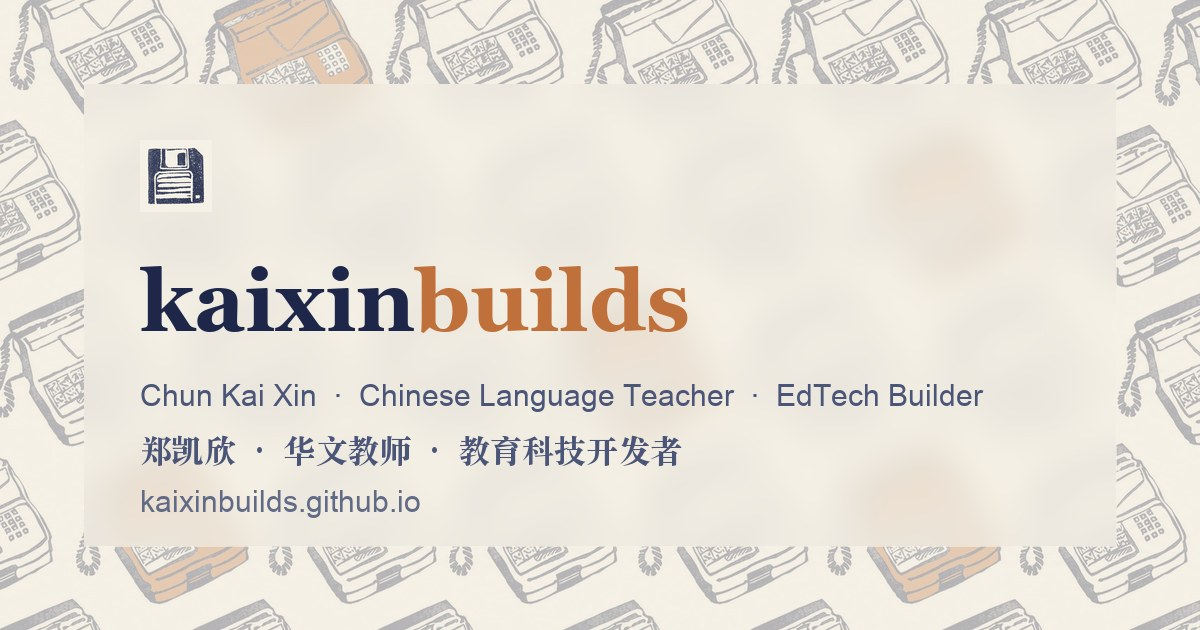
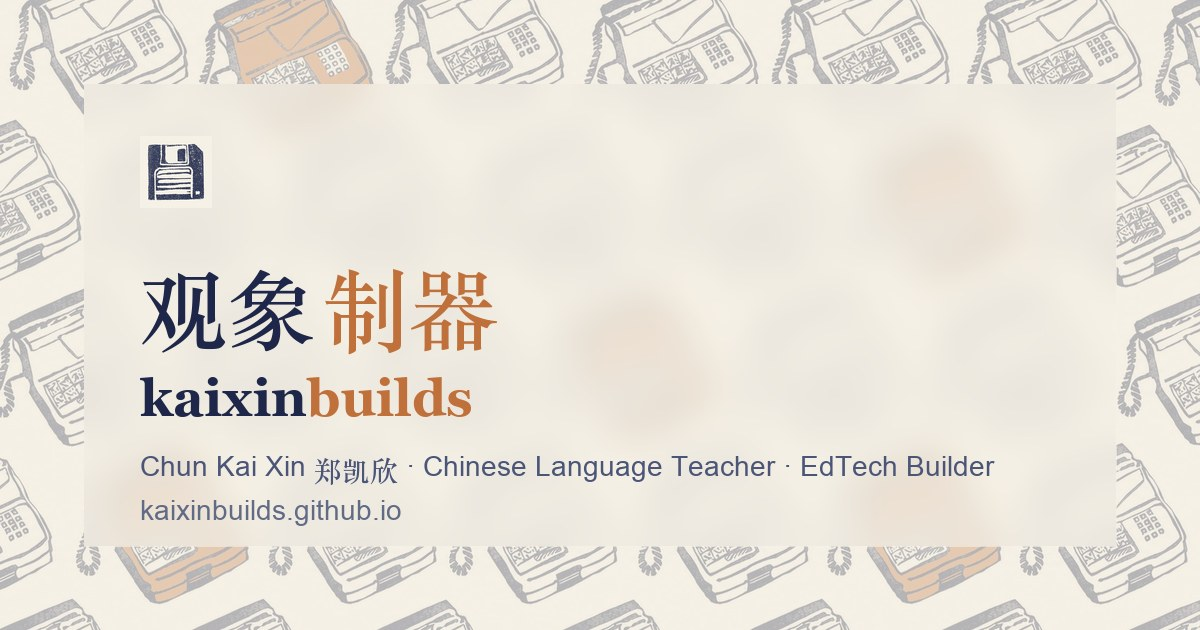
lock in 观象制器 as the Chinese name

diff --git a/script.js b/script.js
@@ -80,6 +80,19 @@
       el.innerHTML = tb(key);
     });
 
+    // The wordmark is a brand, not copy: it shows one form, not a stacked
+    // pair. In bilingual mode the Chinese name leads and the latin one
+    // follows quietly, since the address is still kaixinbuilds.
+    const wordmark = $('#wordmark-text');
+    if (wordmark && data.i18n['brand.a']) {
+      const a = data.i18n['brand.a'], b = data.i18n['brand.b'];
+      const form = (l) => `${esc(a[l])}<em>${esc(b[l])}</em>`;
+      wordmark.innerHTML = lang === 'en'
+        ? form('en')
+        : `<span lang="zh-Hans">${form('zh')}</span>`
+          + (lang === 'both' ? `<span class="wordmark-latin">${esc(a.en + b.en)}</span>` : '');
+    }
+
     document.querySelectorAll('[data-i18n-aria-label]').forEach((el) => {
       el.setAttribute('aria-label', t(el.dataset.i18nAriaLabel));
     });

diff --git a/index.html b/index.html
@@ -38,7 +38,7 @@
     <div class="header-inner">
       <a class="wordmark" href="index.html" aria-current="page">
         <img class="mark" src="favicon.png" alt="" width="22" height="22" decoding="async">
-        <span class="wordmark-text">kaixin<em>builds</em></span>
+        <span class="wordmark-text" id="wordmark-text">kaixin<em>builds</em></span>
       </a>
 
       <nav class="site-nav" aria-label="Primary">
@@ -71,7 +71,7 @@
         <span class="src" data-i18n="epigraph.source">《增广贤文 · 劝学篇》</span>
       </p>
 
-      <p class="eyebrow">kaixinbuilds</p>
+      <p class="eyebrow" data-i18n="brand.full">kaixinbuilds</p>
       <h1 class="hero-name" data-i18n="hero.name">Chun Kai Xin</h1>
       <p class="hero-tagline" data-i18n="hero.tagline"></p>
       <p class="hero-intro" data-i18n="hero.intro"></p>

diff --git a/style.css b/style.css
@@ -164,6 +164,15 @@ main > .section + .section { border-top: 1px solid var(--rule); }
   border-radius: 3px;
 }
 .wordmark-text { white-space: nowrap; }
+.wordmark-text :lang(zh-Hans) { letter-spacing: .04em; }
+.wordmark-latin {
+  margin-left: .55rem;
+  font-family: var(--font-sans);
+  font-size: .72rem;
+  font-weight: 400;
+  letter-spacing: .04em;
+  color: var(--ink-faint);
+}
 .wordmark em { font-style: normal; color: var(--ochre-deep); }
 
 .site-nav { display: flex; gap: 1.6rem; }

diff --git a/approach.html b/approach.html
@@ -38,7 +38,7 @@
     <div class="header-inner">
       <a class="wordmark" href="index.html">
         <img class="mark" src="favicon.png" alt="" width="22" height="22" decoding="async">
-        <span class="wordmark-text">kaixin<em>builds</em></span>
+        <span class="wordmark-text" id="wordmark-text">kaixin<em>builds</em></span>
       </a>
 
       <nav class="site-nav" aria-label="Primary">

diff --git a/contact.html b/contact.html
@@ -38,7 +38,7 @@
     <div class="header-inner">
       <a class="wordmark" href="index.html">
         <img class="mark" src="favicon.png" alt="" width="22" height="22" decoding="async">
-        <span class="wordmark-text">kaixin<em>builds</em></span>
+        <span class="wordmark-text" id="wordmark-text">kaixin<em>builds</em></span>
       </a>
 
       <nav class="site-nav" aria-label="Primary">

diff --git a/talks.html b/talks.html
@@ -38,7 +38,7 @@
     <div class="header-inner">
       <a class="wordmark" href="index.html">
         <img class="mark" src="favicon.png" alt="" width="22" height="22" decoding="async">
-        <span class="wordmark-text">kaixin<em>builds</em></span>
+        <span class="wordmark-text" id="wordmark-text">kaixin<em>builds</em></span>
       </a>
 
       <nav class="site-nav" aria-label="Primary">

diff --git a/work.html b/work.html
@@ -38,7 +38,7 @@
     <div class="header-inner">
       <a class="wordmark" href="index.html">
         <img class="mark" src="favicon.png" alt="" width="22" height="22" decoding="async">
-        <span class="wordmark-text">kaixin<em>builds</em></span>
+        <span class="wordmark-text" id="wordmark-text">kaixin<em>builds</em></span>
       </a>
 
       <nav class="site-nav" aria-label="Primary">

diff --git a/build.py b/build.py
@@ -65,7 +65,7 @@ HEAD = """\
     <div class="header-inner">
       <a class="wordmark" href="index.html"__HOME__>
         <img class="mark" src="favicon.png" alt="" width="22" height="22" decoding="async">
-        <span class="wordmark-text">kaixin<em>builds</em></span>
+        <span class="wordmark-text" id="wordmark-text">kaixin<em>builds</em></span>
       </a>
 
       <nav class="site-nav" aria-label="Primary">
@@ -128,7 +128,7 @@ PAGES = {
         <span class="src" data-i18n="epigraph.source">《增广贤文 · 劝学篇》</span>
       </p>
 
-      <p class="eyebrow">kaixinbuilds</p>
+      <p class="eyebrow" data-i18n="brand.full">kaixinbuilds</p>
       <h1 class="hero-name" data-i18n="hero.name">Chun Kai Xin</h1>
       <p class="hero-tagline" data-i18n="hero.tagline"></p>
       <p class="hero-intro" data-i18n="hero.intro"></p>
